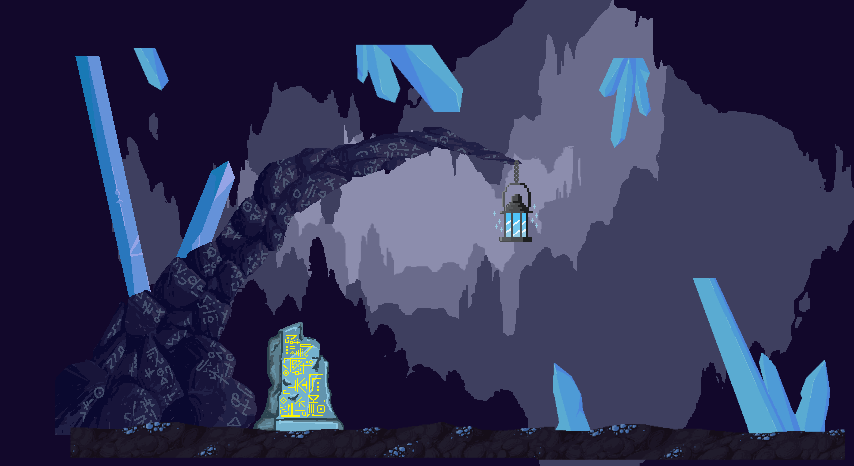
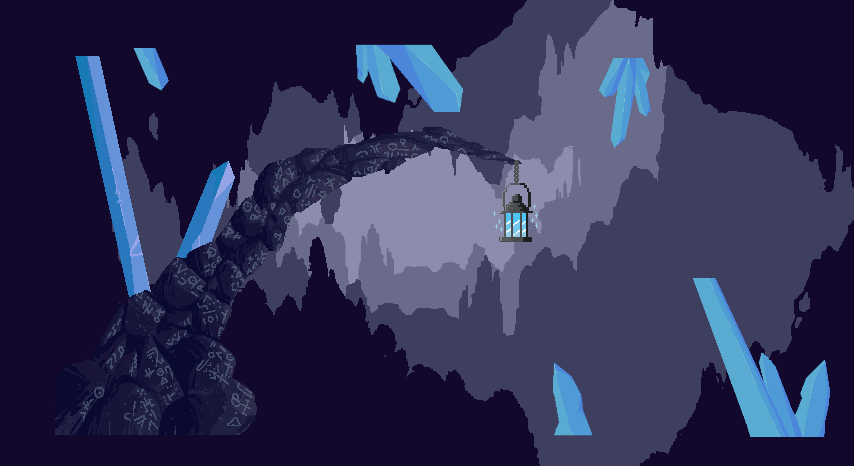
General Animator

diff --git a/PR2/Ott - An Elemental Journey/src/components/MapComponent.cpp b/PR2/Ott - An Elemental Journey/src/components/MapComponent.cpp
@@ -588,6 +588,18 @@ void MapComponent::loadMap(std::string path, int nextPos) {
                 newGrass->getComponent<InteractionComponent>()->setIt(it, v);
                 newGrass->setActive(false);
             }
+            else if (ot.getClass() == "Lore_Rock") {
+                auto roomScale = vectorTiles[std::stoi(ot.getName())].first;
+                auto rock = constructors::rockLore(mngr_, 
+                    Vector2D((x_ * scale) * roomScale, (y_ * scale) * roomScale),
+                    (w_ * scale) * roomScale, (h_ * scale) * roomScale, 0, std::stoi(ot.getName()));
+                interact[std::stoi(ot.getName())].push_back(rock);
+                auto v = &interact[std::stoi(ot.getName())];
+                auto it = (--v->end());
+                rock->getComponent<InteractionComponent>()->setIt(it, v);
+                rock->setActive(false);
+          
+            }
             else if (ot.getClass() == "Spike") {
                 auto roomScale = vectorTiles[std::stoi(ot.getName())].first;
                 auto newSpike = constructors::damageArea(mngr_,
@@ -739,25 +751,7 @@ void MapComponent::loadMap(std::string path, int nextPos) {
                 earthBossPlatforms->setActive(false);
                 eraseEntities.push_back(earthBossPlatforms);
             }
-            else if (ot.getClass() == "lore_Trigger") {
-                int roomNum = std::stoi(ot.getName());
-                auto roomScale = vectorTiles[roomNum].first;
-                SDL_Rect trigger;
-                trigger.x = x_ * scale * roomScale;
-                trigger.y = y_ * scale * roomScale;
-                trigger.w = w_ * scale * roomScale;
-                trigger.h = h_ * scale * roomScale;
-                Entity* triggerLore = mngr_->addEntity(ecs::_grp_GENERAL);
-                triggerLore->addComponent<Transform>(trigger);
-                triggerLore->addComponent<LoreRoom>(player_);
-                triggerLore->addComponent<Trigger>();
-            
-                interact[roomNum].push_back(triggerLore);
-                auto v = &interact[roomNum];
-                auto it = (--v->end());
-                triggerLore->getComponent<InteractionComponent>()->setIt(it, v);
-                triggerLore->setActive(false);
-            }
+          
             else if (classSplit[0] == "Life") {
                 auto lifeSharIDSplit = strSplit(pickedLifeShards, ' ');
                 bool dontCreate = false;

diff --git a/PR2/Ott - An Elemental Journey/src/game/Constructors.h b/PR2/Ott - An Elemental Journey/src/game/Constructors.h
@@ -360,6 +360,17 @@ namespace constructors {
 		grass->addComponent<GrassAnimationComponent>();
 		return grass;
 	}
+	static inline Entity* rockLore(Manager* mngr_, Vector2D position, int width, int height, int ID, int room) {
+		auto rock = mngr_->addEntity(ecs::_grp_INTERACTION);
+		rock->addComponent<Transform>(position, width, height);
+		rock->addComponent<Image>(&sdlutils().images().at("loreRock"));
+		auto cb = []() {
+			static_cast<PlayState*>(GameStateMachine::instance()->getPlayState())->startLore();
+		};
+		rock->addComponent<InteractionComponent>(cb, ROCK_IT, ID, room);
+		//rock->addComponent<GeneralAnimationController>();
+		return rock;
+	}
 
 	static inline Entity* LifeShard(Manager* mngr_, int x, int y, int w, int h, int ID, int room) {
 		auto shard = mngr_->addEntity(ecs::_grp_INTERACTION);
@@ -603,7 +614,8 @@ namespace constructors {
 			type = anims::CARTELELEMENTO;
 		}
 		cartelObject->addComponent<FramedImage>(&sdlutils().images().at(numCartel), row, col);
-			//cartelObject->addComponent< GeneralAnimationController>(type,cartelObject);
+		if(numCartel != "bossTierraCartel")
+			cartelObject->addComponent<GeneralAnimationController>(type,cartelObject);
 		return cartelObject;
 	}
 }

diff --git a/PR2/Ott - An Elemental Journey/src/components/GeneralAnimationController.cpp b/PR2/Ott - An Elemental Journey/src/components/GeneralAnimationController.cpp
@@ -8,12 +8,16 @@ GeneralAnimationController::GeneralAnimationController(anims::Entities e, Entity
 {
 	eAnims = e;
 	image = e1->getComponent<FramedImage>();
-	
 }
 
 void GeneralAnimationController::update() {
 	timer_++;
 	int col = image->getCurrentCol();
-	col = (timer_ / getTPerFrame()) % getNFrames() + getColNum();
-	image->setCol(col);
+	int row = image->getCurrentRow();
+	int c = (timer_ / getTPerFrame()) % getNFrames() + getColNum();
+	col = c % image->getTexture()->getNumCols();
+	if (col == 0) {
+		row = (c / image->getTexture()->getNumCols());
+	}
+	image->setCol(col); image->setRow(row);
 }

diff --git a/PR2/Ott - An Elemental Journey/src/states/PlayState.h b/PR2/Ott - An Elemental Journey/src/states/PlayState.h
@@ -129,6 +129,7 @@ public:
     inline float getGravityValue() const { return gravityValue; }
     void checkInteraction();
     void AddEnredadera();
+    void startLore() { std::cout << "Te cuento el lore hehe" << std::endl; };
     void AddLifeShard(int id);
     void Teleport();
     void Save();

diff --git a/PR2/Ott - An Elemental Journey/src/components/InteractionComponent.h b/PR2/Ott - An Elemental Journey/src/components/InteractionComponent.h
@@ -8,7 +8,7 @@
 #include <functional>
 #include"../game/Game.h"
 
-enum Interaction {LAMP_IT, SANCTUARY_IT, LIFESHARD_IT, GRASS_IT, ELEMENT_IT };
+enum Interaction {LAMP_IT, SANCTUARY_IT, LIFESHARD_IT, GRASS_IT, ELEMENT_IT, ROCK_IT };
 
 class InteractionComponent : public Component
 {
